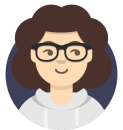
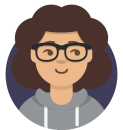
Secret picture!

Changed region(s): [[0.1463, 0.2462, 0.8537, 1.0]]

diff --git a/index.html b/index.html
@@ -10,7 +10,7 @@ redirect_from:
 <div class="wrapper">
   <div id="homepagebanner">
     <div class="top">
-      <img src="me.png" alt="Pixel art of Ian Renton"/>
+      <img id="pfp" src="me.png" alt="Ian Renton"/>
       <h1>Ian Renton</h1>
       <h2>Software engineer and builder of robots<br/>Bournemouth, UK</h2>
     </div>
@@ -146,3 +146,11 @@ redirect_from:
     </div>
   </div>
 </div>
+
+<script>
+  // April fools
+  const today = new Date();
+  if (today.getDate() == 1 && today.getMonth() == 3) {
+    document.getElementById("pfp").src = 'me-aprilfools.png';
+  }
+</script>
